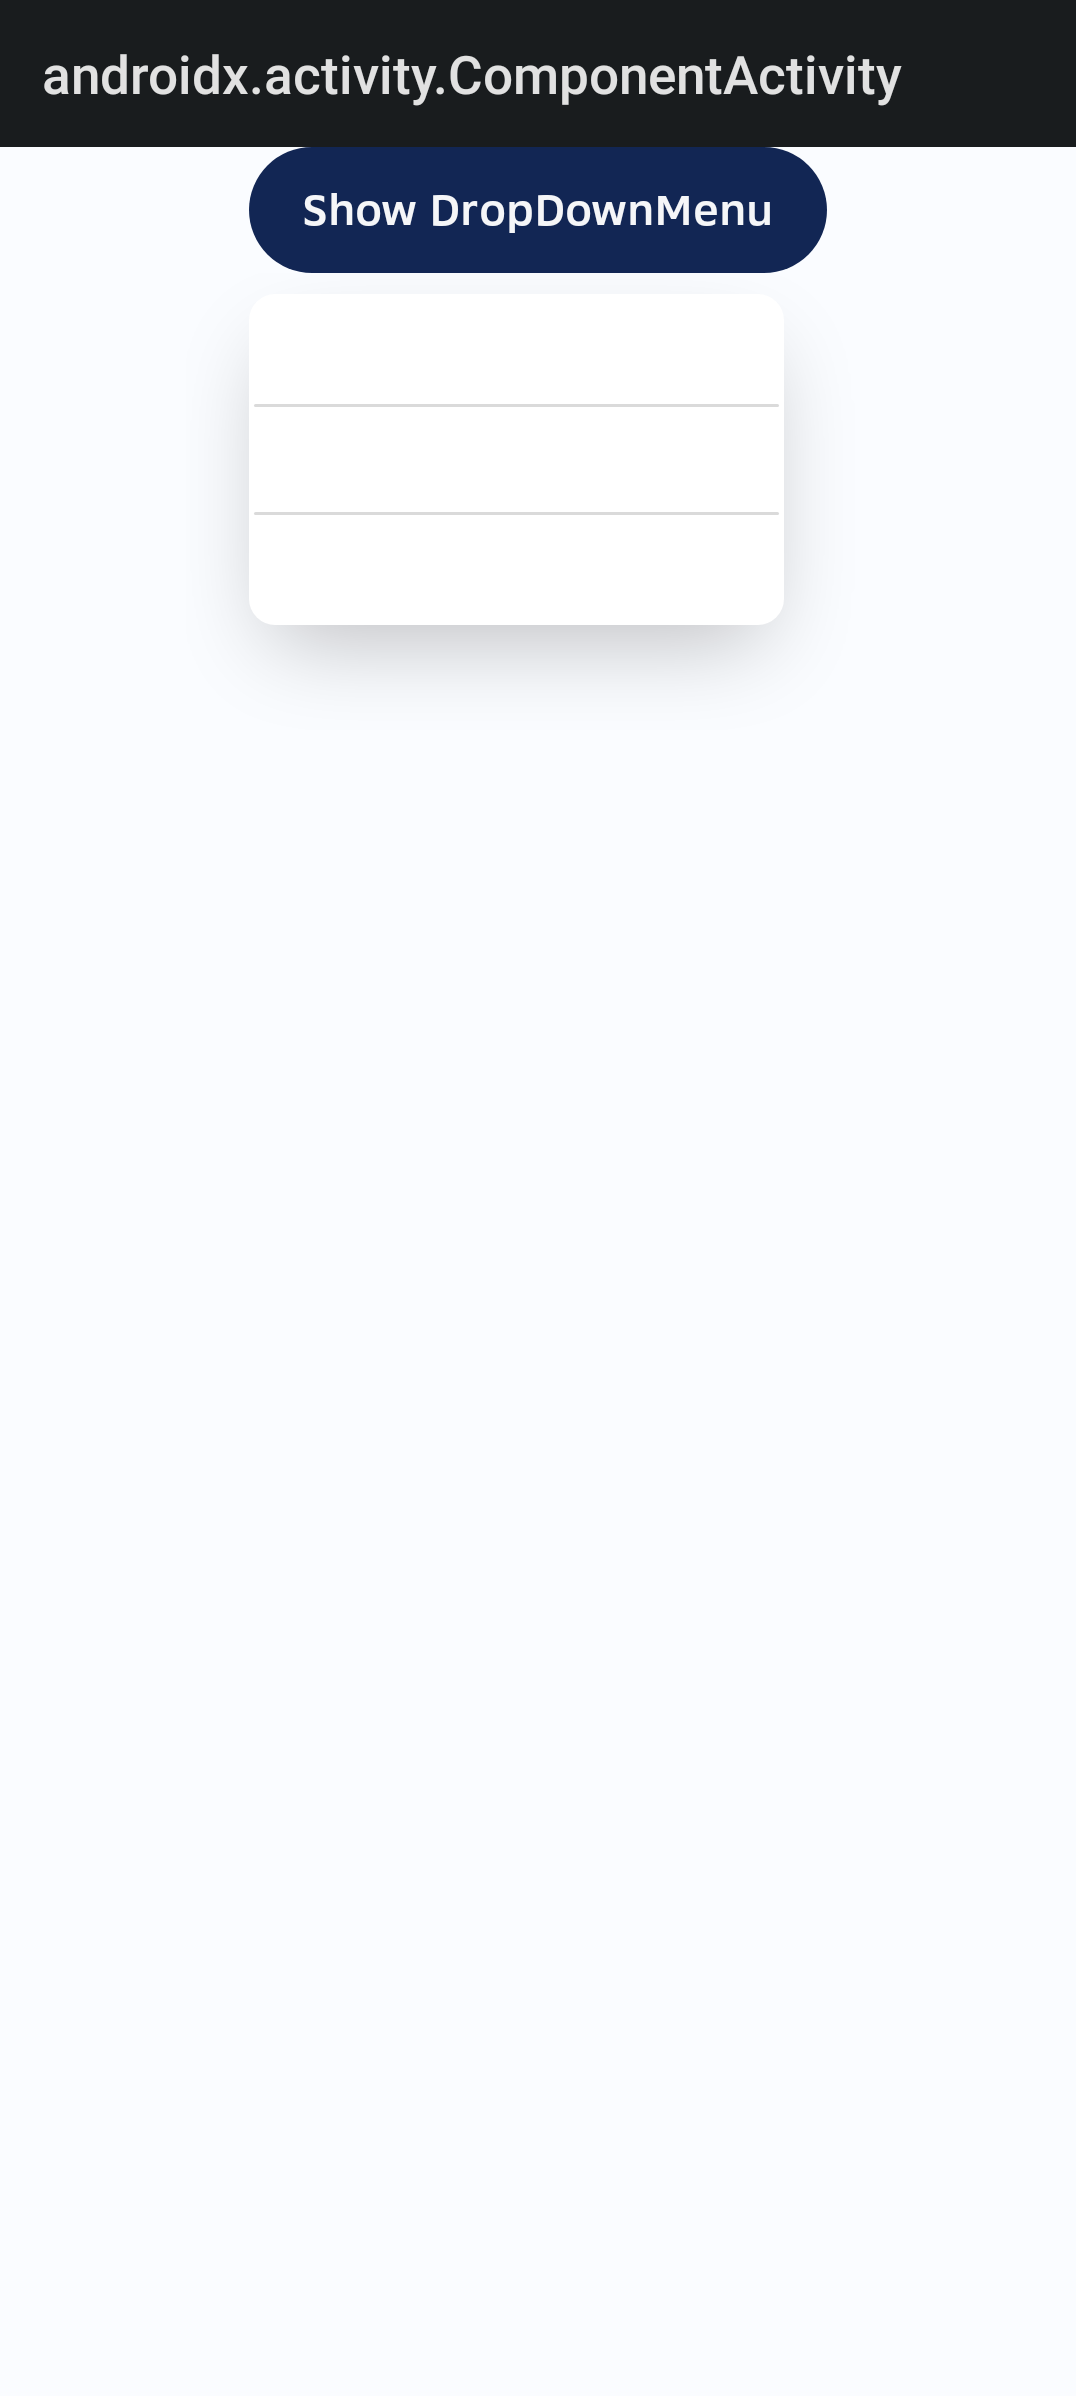
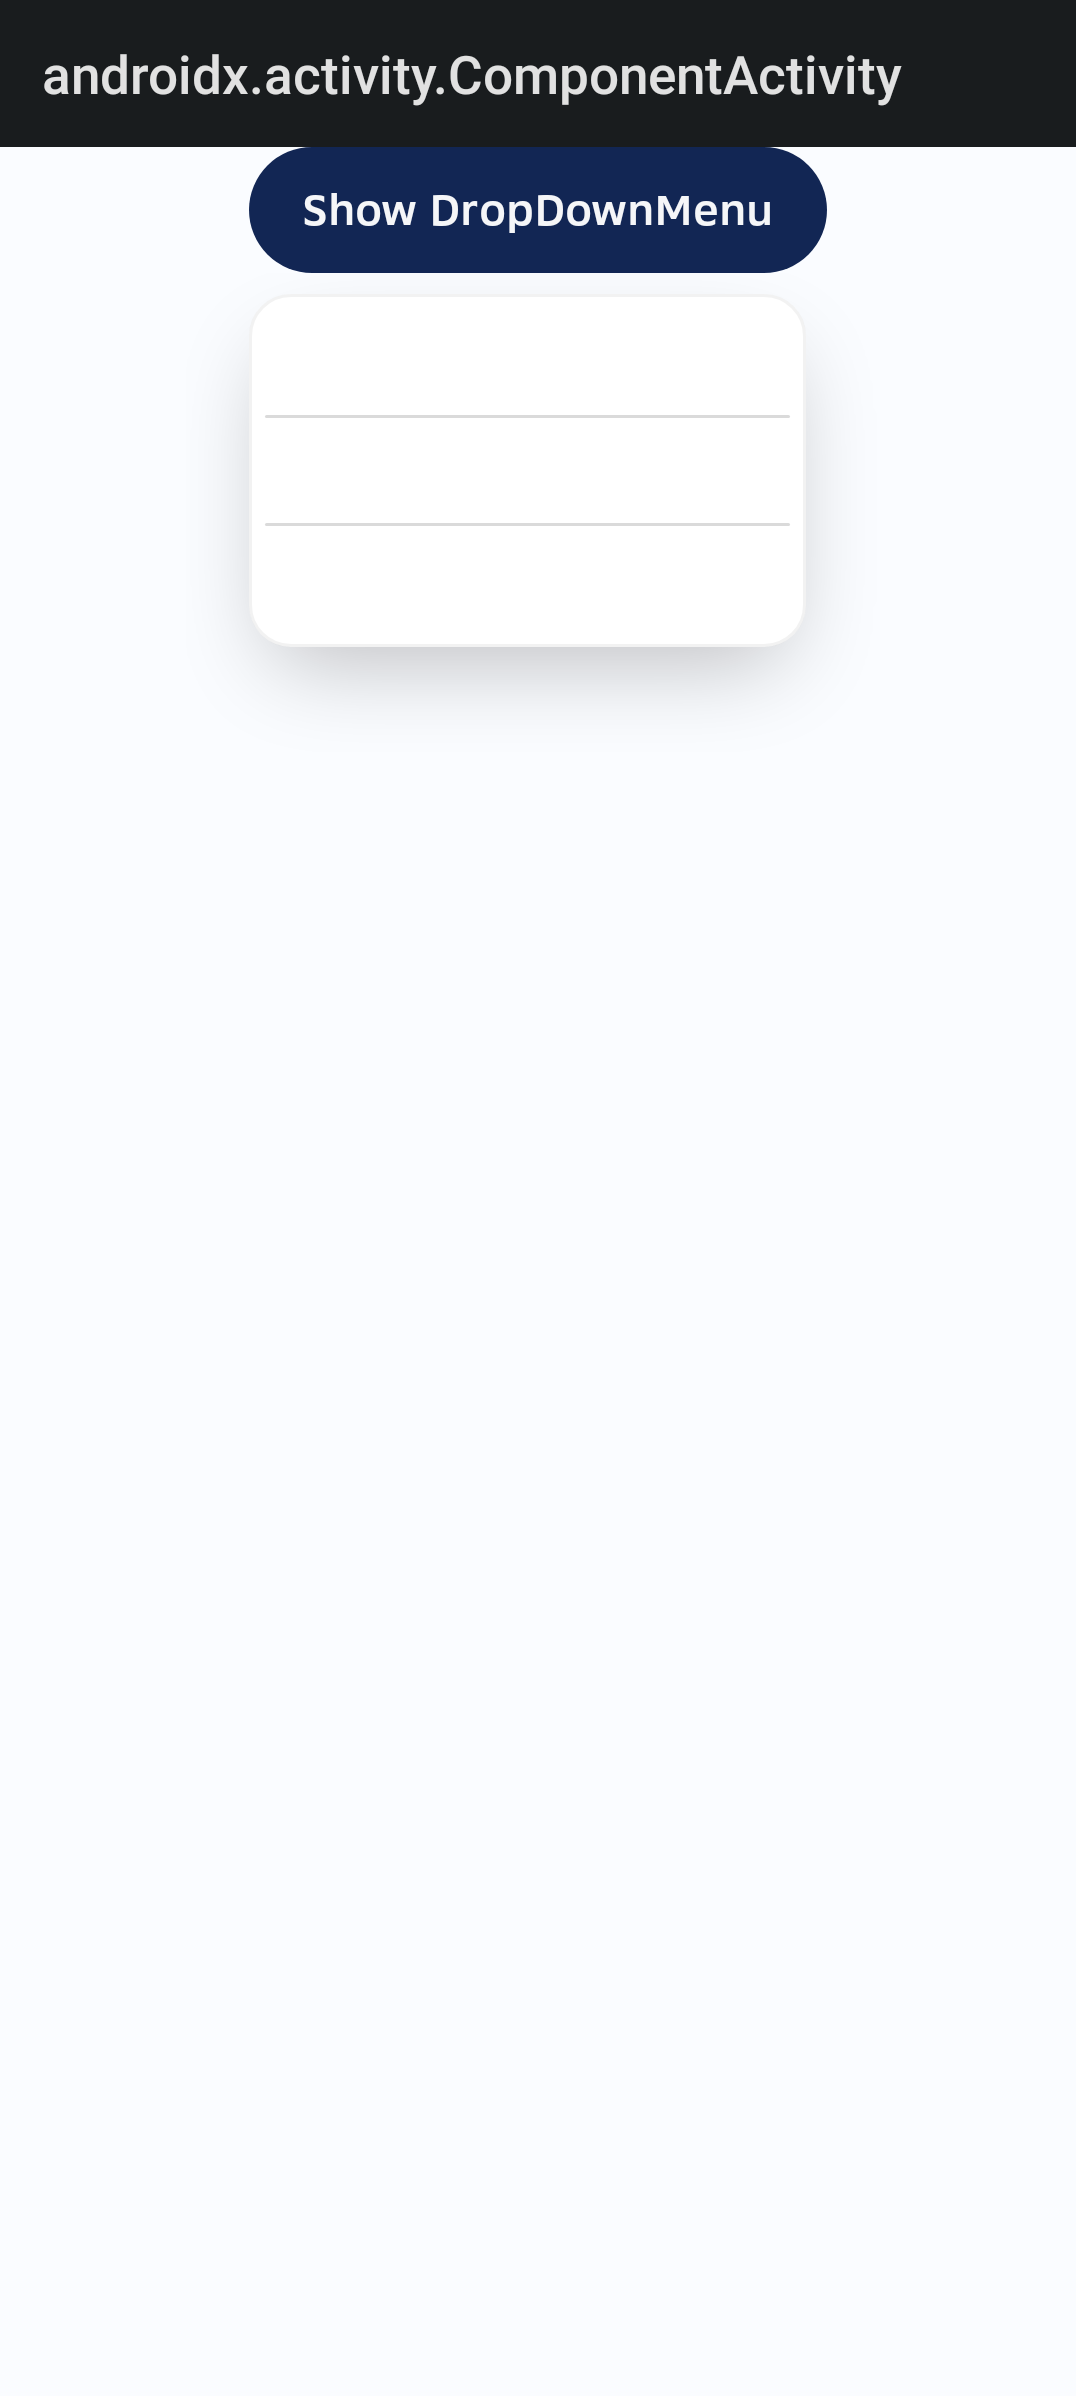
feat(sdds-alib/plasma-giga-compose): DropdownMenu styles were actualized (#895)

Changed region(s): [[0.2454, 0.2471, 0.7054, 0.278]]

diff --git a/tokens/plasma.giga.compose/src/main/kotlin/com/sdds/plasma/giga/styles/dropdownmenu/DropdownMenuNormalStyles.kt b/tokens/plasma.giga.compose/src/main/kotlin/com/sdds/plasma/giga/styles/dropdownmenu/DropdownMenuNormalStyles.kt
@@ -122,11 +122,19 @@ public val DropdownMenuNormal.L: WrapperDropdownMenuNormalL
     @JvmName("WrapperDropdownMenuNormalL")
     get() = DropdownMenuStyle.builder(this)
         .invariantProps
-        .shape(PlasmaGigaTheme.shapes.roundL.adjustBy(all = -2.0.dp))
+        .shape(PlasmaGigaTheme.shapes.roundXl)
         .listStyle(DropdownMenuListNormal.L.style())
         .emptyStateStyle(DropdownEmptyState.L.HasButton.style())
+        .colors {
+            strokeColor(SolidColor(PlasmaGigaTheme.colors.outlineDefaultTransparentPrimary).asStatefulValue())
+        }
         .dimensions {
             width(200.0.dp)
+            strokeWidth(1.0.dp)
+            paddingStart(10.0.dp)
+            paddingEnd(10.0.dp)
+            paddingTop(10.0.dp)
+            paddingBottom(10.0.dp)
             scrollBarPaddingTop(6.0.dp)
             scrollBarPaddingBottom(8.0.dp)
         }
@@ -137,11 +145,19 @@ public val DropdownMenuNormal.M: WrapperDropdownMenuNormalM
     @JvmName("WrapperDropdownMenuNormalM")
     get() = DropdownMenuStyle.builder(this)
         .invariantProps
-        .shape(PlasmaGigaTheme.shapes.roundM)
+        .shape(PlasmaGigaTheme.shapes.roundXl.adjustBy(all = -2.0.dp))
         .listStyle(DropdownMenuListNormal.M.style())
         .emptyStateStyle(DropdownEmptyState.M.HasButton.style())
+        .colors {
+            strokeColor(SolidColor(PlasmaGigaTheme.colors.outlineDefaultTransparentPrimary).asStatefulValue())
+        }
         .dimensions {
             width(200.0.dp)
+            strokeWidth(1.0.dp)
+            paddingStart(8.0.dp)
+            paddingEnd(8.0.dp)
+            paddingTop(8.0.dp)
+            paddingBottom(8.0.dp)
             scrollBarPaddingTop(6.0.dp)
             scrollBarPaddingBottom(8.0.dp)
         }
@@ -152,11 +168,19 @@ public val DropdownMenuNormal.S: WrapperDropdownMenuNormalS
     @JvmName("WrapperDropdownMenuNormalS")
     get() = DropdownMenuStyle.builder(this)
         .invariantProps
-        .shape(PlasmaGigaTheme.shapes.roundM.adjustBy(all = -2.0.dp))
+        .shape(PlasmaGigaTheme.shapes.roundL)
         .listStyle(DropdownMenuListNormal.S.style())
         .emptyStateStyle(DropdownEmptyState.S.HasButton.style())
+        .colors {
+            strokeColor(SolidColor(PlasmaGigaTheme.colors.outlineDefaultTransparentPrimary).asStatefulValue())
+        }
         .dimensions {
             width(160.0.dp)
+            strokeWidth(1.0.dp)
+            paddingStart(6.0.dp)
+            paddingEnd(6.0.dp)
+            paddingTop(6.0.dp)
+            paddingBottom(6.0.dp)
             scrollBarPaddingTop(6.0.dp)
             scrollBarPaddingBottom(8.0.dp)
         }

diff --git a/tokens/plasma.giga.compose/src/main/kotlin/com/sdds/plasma/giga/styles/dropdownmenu/DropdownMenuTightStyles.kt b/tokens/plasma.giga.compose/src/main/kotlin/com/sdds/plasma/giga/styles/dropdownmenu/DropdownMenuTightStyles.kt
@@ -122,11 +122,19 @@ public val DropdownMenuTight.L: WrapperDropdownMenuTightL
     @JvmName("WrapperDropdownMenuTightL")
     get() = DropdownMenuStyle.builder(this)
         .invariantProps
-        .shape(PlasmaGigaTheme.shapes.roundL.adjustBy(all = -2.0.dp))
+        .shape(PlasmaGigaTheme.shapes.roundXl)
         .listStyle(DropdownMenuListTight.L.style())
         .emptyStateStyle(DropdownEmptyState.L.HasButton.style())
+        .colors {
+            strokeColor(SolidColor(PlasmaGigaTheme.colors.outlineDefaultTransparentPrimary).asStatefulValue())
+        }
         .dimensions {
             width(200.0.dp)
+            strokeWidth(1.0.dp)
+            paddingStart(10.0.dp)
+            paddingEnd(10.0.dp)
+            paddingTop(10.0.dp)
+            paddingBottom(10.0.dp)
             scrollBarPaddingTop(6.0.dp)
             scrollBarPaddingBottom(8.0.dp)
         }
@@ -137,11 +145,19 @@ public val DropdownMenuTight.M: WrapperDropdownMenuTightM
     @JvmName("WrapperDropdownMenuTightM")
     get() = DropdownMenuStyle.builder(this)
         .invariantProps
-        .shape(PlasmaGigaTheme.shapes.roundM)
+        .shape(PlasmaGigaTheme.shapes.roundXl.adjustBy(all = -2.0.dp))
         .listStyle(DropdownMenuListTight.M.style())
         .emptyStateStyle(DropdownEmptyState.M.HasButton.style())
+        .colors {
+            strokeColor(SolidColor(PlasmaGigaTheme.colors.outlineDefaultTransparentPrimary).asStatefulValue())
+        }
         .dimensions {
             width(200.0.dp)
+            strokeWidth(1.0.dp)
+            paddingStart(8.0.dp)
+            paddingEnd(8.0.dp)
+            paddingTop(8.0.dp)
+            paddingBottom(8.0.dp)
             scrollBarPaddingTop(6.0.dp)
             scrollBarPaddingBottom(8.0.dp)
         }
@@ -152,11 +168,19 @@ public val DropdownMenuTight.S: WrapperDropdownMenuTightS
     @JvmName("WrapperDropdownMenuTightS")
     get() = DropdownMenuStyle.builder(this)
         .invariantProps
-        .shape(PlasmaGigaTheme.shapes.roundM.adjustBy(all = -2.0.dp))
+        .shape(PlasmaGigaTheme.shapes.roundL)
         .listStyle(DropdownMenuListTight.S.style())
         .emptyStateStyle(DropdownEmptyState.S.HasButton.style())
+        .colors {
+            strokeColor(SolidColor(PlasmaGigaTheme.colors.outlineDefaultTransparentPrimary).asStatefulValue())
+        }
         .dimensions {
             width(160.0.dp)
+            strokeWidth(1.0.dp)
+            paddingStart(6.0.dp)
+            paddingEnd(6.0.dp)
+            paddingTop(6.0.dp)
+            paddingBottom(6.0.dp)
             scrollBarPaddingTop(6.0.dp)
             scrollBarPaddingBottom(8.0.dp)
         }
